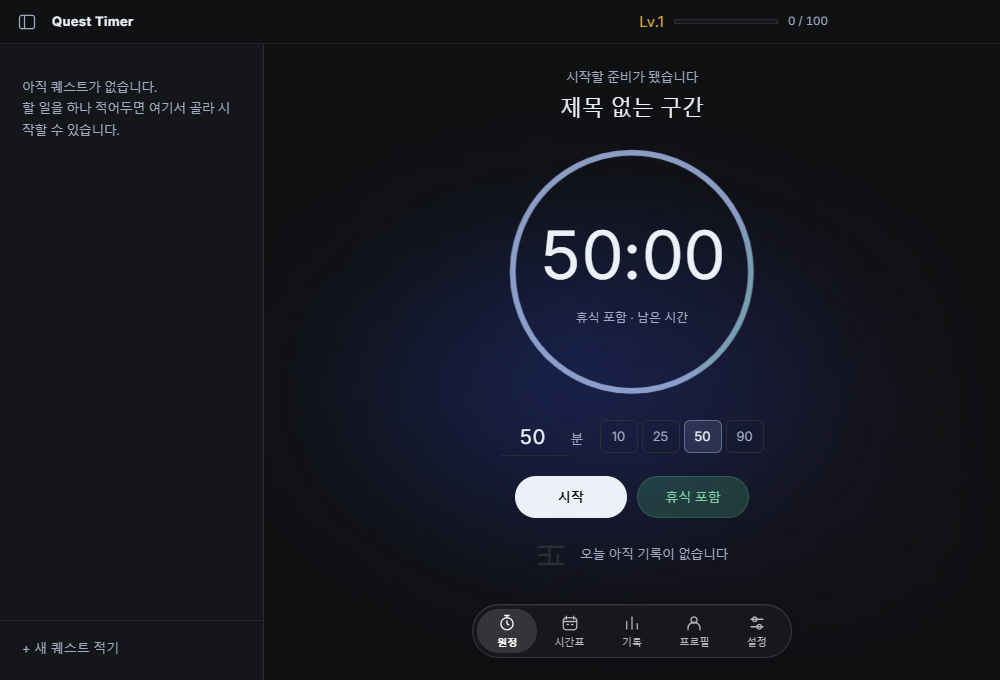
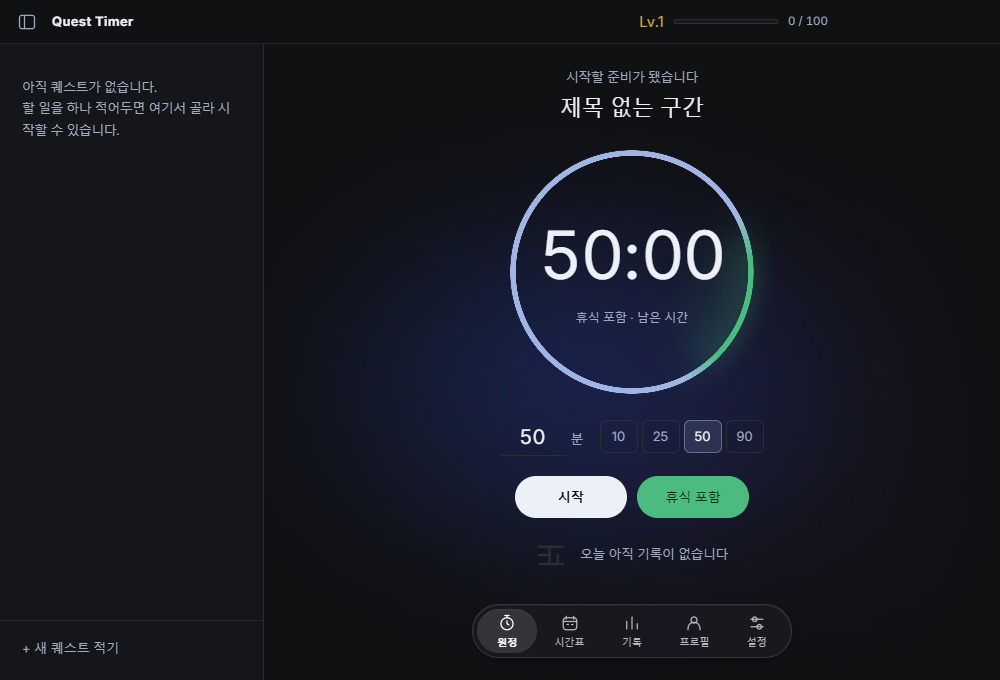
휴식 포함 타이머 링 둘레에 휴식 구간의 초록빛을 은은하게 번지게 한다
링 뒤에 휴식 구간만 초록으로 칠한 흐린 빛을 깔아, 휴식이 어디쯤
오는지 링 바깥에서도 보이게 한다. 링과 같이 반시계로 줄어들고,
잠시 멈추면 더 옅어진다.

Claude-Session: https://claude.ai/code/session_01Nfi8WyaaBRBTqL6dCDZeb6

diff --git a/src/styles.css b/src/styles.css
@@ -1126,6 +1126,10 @@ body.is-running .content::before, body.is-away .content::before { opacity: 0; }
 .sound-actions .btn:disabled { opacity: .4; cursor: default; }
 .clock-caption { color: var(--meok-mute); font-size: 12px; transition: color 480ms ease; }
 @property --elapsed-angle { syntax: '<angle>'; inherits: false; initial-value: 0deg; }
+.break-glow { position: absolute; inset: -6%; border-radius: 50%; pointer-events: none; opacity: 0; filter: blur(12px); transition: opacity 480ms ease; mask-image: radial-gradient(farthest-side, transparent 25%, rgba(0,0,0,.35) 55%, black 78%, transparent 100%); }
+.break-glow > div { width: 100%; height: 100%; border-radius: 50%; transform: scaleX(-1); mask-image: conic-gradient(transparent var(--elapsed-angle), black 0deg); transition: --elapsed-angle 250ms linear; }
+.timer-ring.has-breaks .break-glow { opacity: .2; }
+.timer-ring.has-breaks.is-held .break-glow { opacity: .11; }
 .break-ring { position: absolute; inset: 2.65625%; border-radius: 50%; pointer-events: none; opacity: 0; transition: opacity 480ms ease; mask-image: radial-gradient(farthest-side, transparent 95.05%, black 95.38%, black 99.67%, transparent 100%); }
 /* conic-gradient 은 시계방향으로만 돌아서, 좌우로 뒤집어 반시계방향으로 줄어들게 한다. */
 .break-ring > div { width: 100%; height: 100%; border-radius: 50%; transform: scaleX(-1); mask-image: conic-gradient(transparent var(--elapsed-angle), black 0deg); transition: --elapsed-angle 250ms linear; }
@@ -1146,7 +1150,7 @@ body.is-running .content::before, body.is-away .content::before { opacity: 0; }
 @keyframes text-fade-out { to { opacity: 0; transform: translateY(3px); } }
 @keyframes text-fade-in { from { opacity: 0; transform: translateY(-3px); } to { opacity: 1; transform: translateY(0); } }
 @media (prefers-reduced-motion: reduce) {
-  .break-ring, .break-ring > div, .ring-fill, .break-toggle-button, .clock-caption { transition: none; }
+  .break-glow, .break-glow > div, .break-ring, .break-ring > div, .ring-fill, .break-toggle-button, .clock-caption { transition: none; }
   .text-transition::before { display: none; }
   .text-transition > span { animation: none; }
 }

diff --git a/src/renderer.js b/src/renderer.js
@@ -842,6 +842,7 @@
     if (hasBreaks) {
       const colors = { focus: 'var(--cheongja)', break: '#4cbb80' };
       const stops = [];
+      const glowStops = [];
       plan.segments.forEach((s, i) => {
         const previous = plan.segments[i - 1];
         const next = plan.segments[i + 1];
@@ -850,10 +851,15 @@
         const fadeIn = previous ? Math.min(blend, (s.end - s.start) / planned * 90, (previous.end - previous.start) / planned * 90) : 0;
         const fadeOut = next ? Math.min(blend, (s.end - s.start) / planned * 90, (next.end - next.start) / planned * 90) : 0;
         stops.push(colors[s.kind] + ' ' + (s.start / planned * 360 + fadeIn) + 'deg', colors[s.kind] + ' ' + (s.end / planned * 360 - fadeOut) + 'deg');
+        const glowColor = s.kind === 'break' ? colors.break : 'transparent';
+        glowStops.push(glowColor + ' ' + (s.start / planned * 360 + fadeIn) + 'deg', glowColor + ' ' + (s.end / planned * 360 - fadeOut) + 'deg');
       });
       const background = 'conic-gradient(' + stops.join(',') + ')';
       if ($('breakRingColor').style.background !== background) $('breakRingColor').style.background = background;
       $('breakRingColor').style.setProperty('--elapsed-angle', (elapsed / planned * 360) + 'deg');
+      const glowBackground = 'conic-gradient(' + glowStops.join(',') + ')';
+      if ($('breakGlowColor').style.background !== glowBackground) $('breakGlowColor').style.background = glowBackground;
+      $('breakGlowColor').style.setProperty('--elapsed-angle', (elapsed / planned * 360) + 'deg');
     }
 
     paintClockDigits(G.formatClock(remain), Math.max(0, Math.ceil(remain)));

diff --git a/src/index.html b/src/index.html
@@ -69,6 +69,7 @@
         <h2 class="field-title" id="fieldTitle">제목 없는 구간</h2>
 
         <div class="timer-ring" id="ink">
+          <div class="break-glow" aria-hidden="true"><div id="breakGlowColor"></div></div>
           <svg class="ring-svg" viewBox="0 0 320 320" aria-hidden="true">
             <circle class="ring-track" cx="160" cy="160" r="148"/>
             <circle class="ring-fill" id="inkFill" cx="160" cy="160" r="148" pathLength="100"/>
